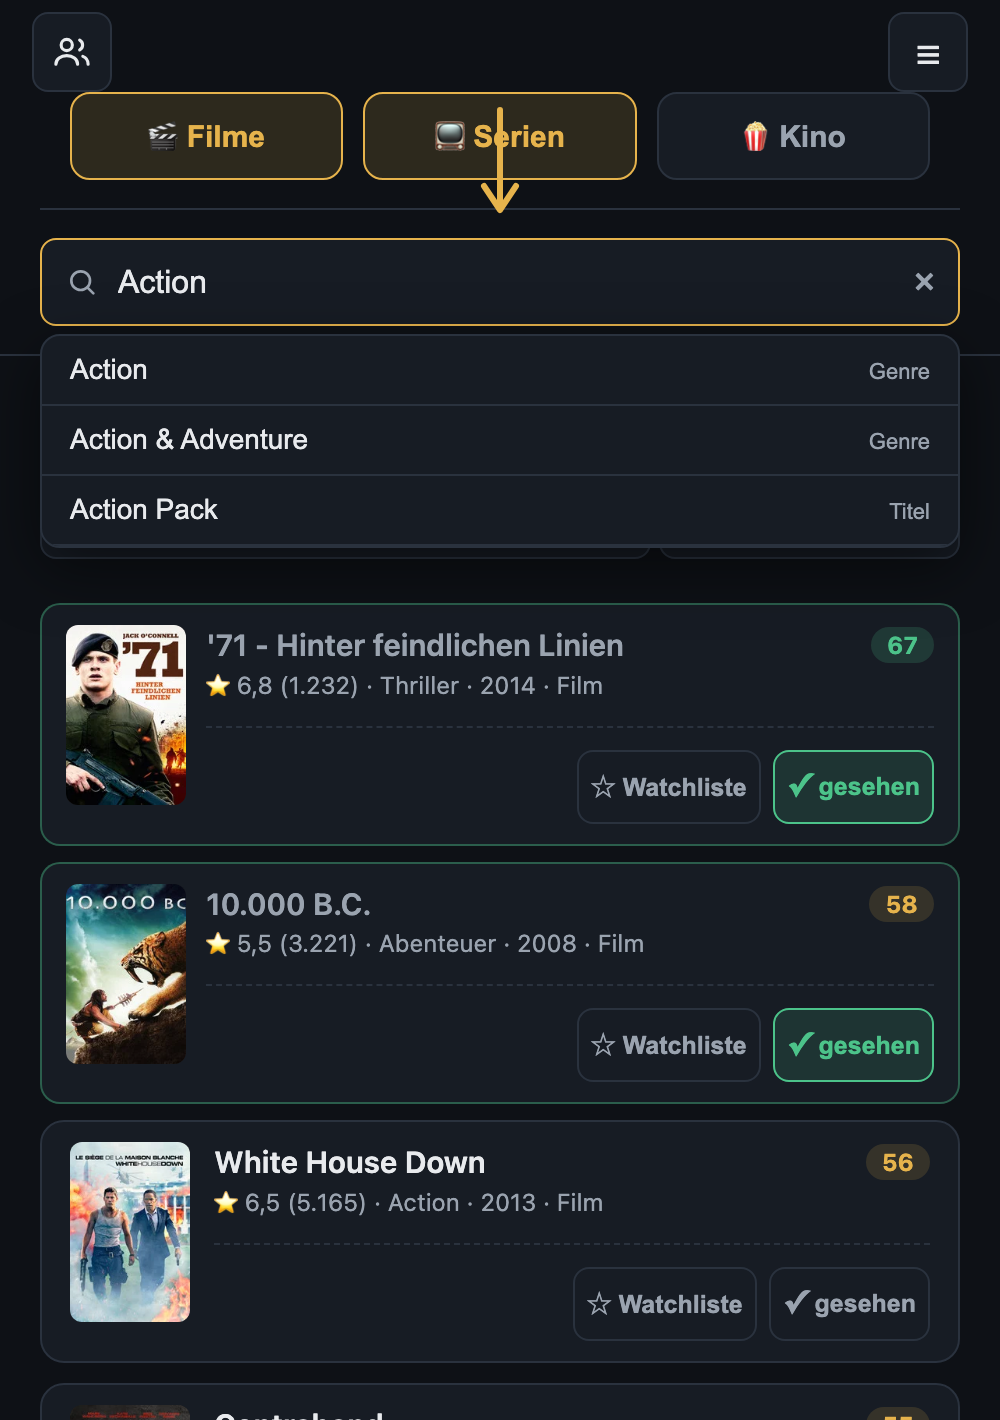
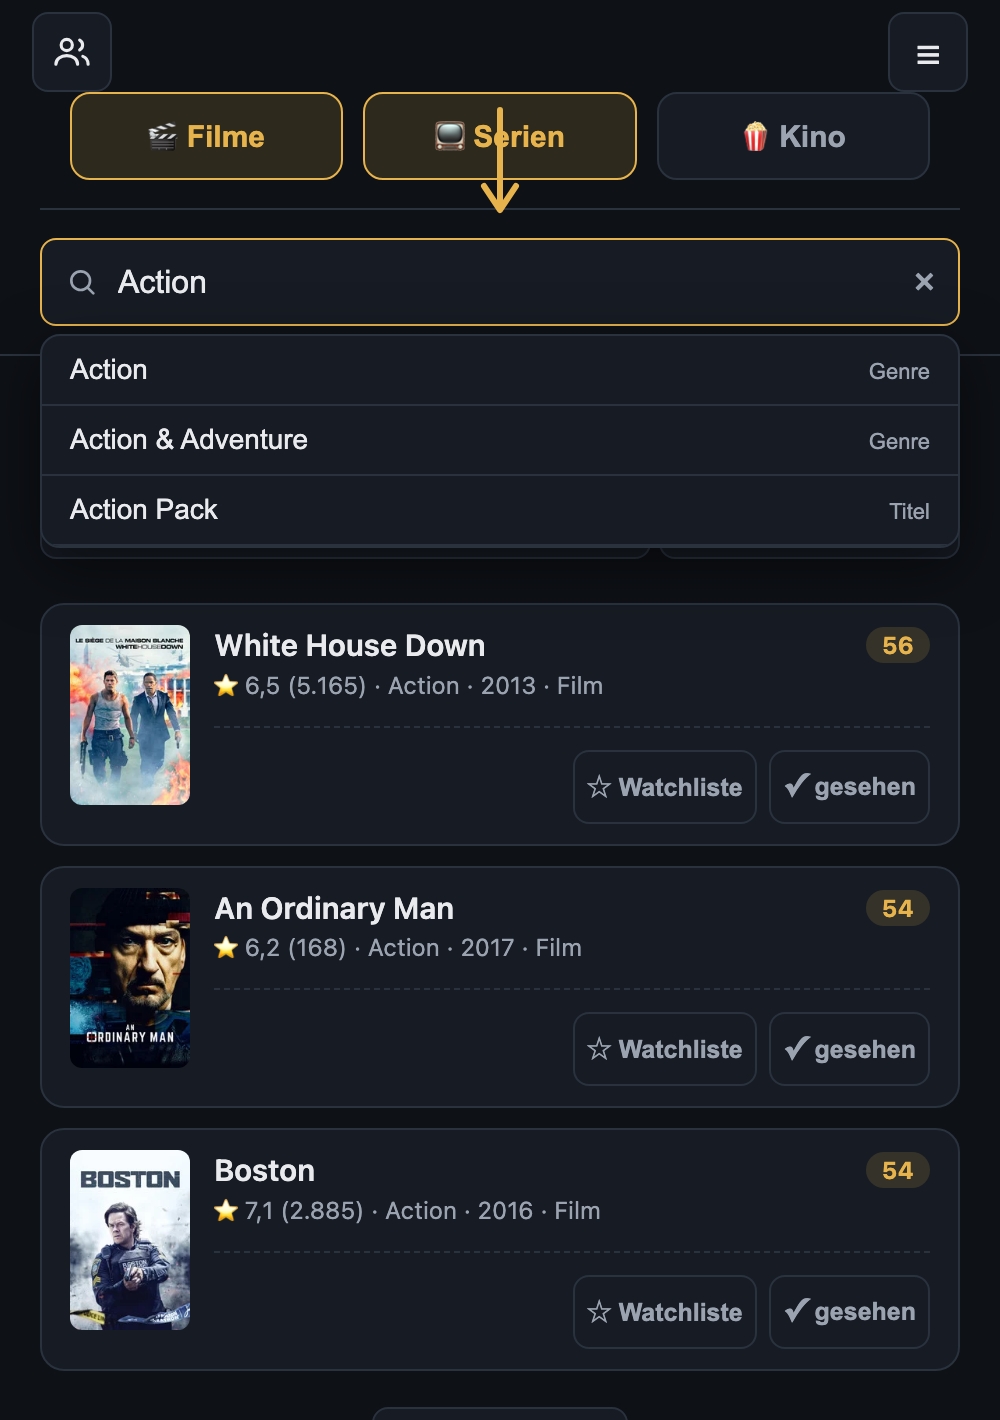
Seite 6: nur Titel, bei denen "Action" auch in der Zeile steht
Die Suche prueft alle Genres eines Titels, die Metazeile zeigt aber nur das
erste. Unter der Suche nach "Action" standen deshalb Titel mit "Thriller" und
"Abenteuer" in der Zeile -- korrekt, aber als Bild fuer die Suche irrefuehrend.
Die Aufnahme waehlt jetzt drei Zeilen aus, in denen Action sichtbar ist. Kein
nachtraeglich veraendertes Bild: Was da steht, steht so in der App.

diff --git a/scripts/tour/aufbau.js b/scripts/tour/aufbau.js
@@ -218,6 +218,18 @@
             // dahinter, um die es auf dieser Seite auch geht.
             var vs = document.querySelectorAll('#searchSuggest button');
             for (var i = 3; i < vs.length; i++) vs[i].style.display = 'none';
+            // Nur Zeilen zeigen, in denen "Action" auch WIRKLICH steht. Die
+            // Metazeile fuehrt nur das erste Genre; gesucht wird aber ueber alle.
+            // Ohne diese Auswahl standen unter der Suche nach "Action" Titel mit
+            // "Thriller" und "Abenteuer" in der Zeile -- richtig, aber als Bild
+            // fuer die Suche nicht zu gebrauchen.
+            var sichtbar = 0;
+            document.querySelectorAll('#list li').forEach(function (li) {
+              var zeile = li.querySelector('.meta-main') || li.querySelector('.dmeta');
+              var passt = zeile && zeile.textContent.indexOf('Action') !== -1;
+              if (passt && sichtbar < 3) { li.style.display = ''; sichtbar++; }
+              else li.style.display = 'none';
+            });
           });
           fertig();
         }, 1200);
